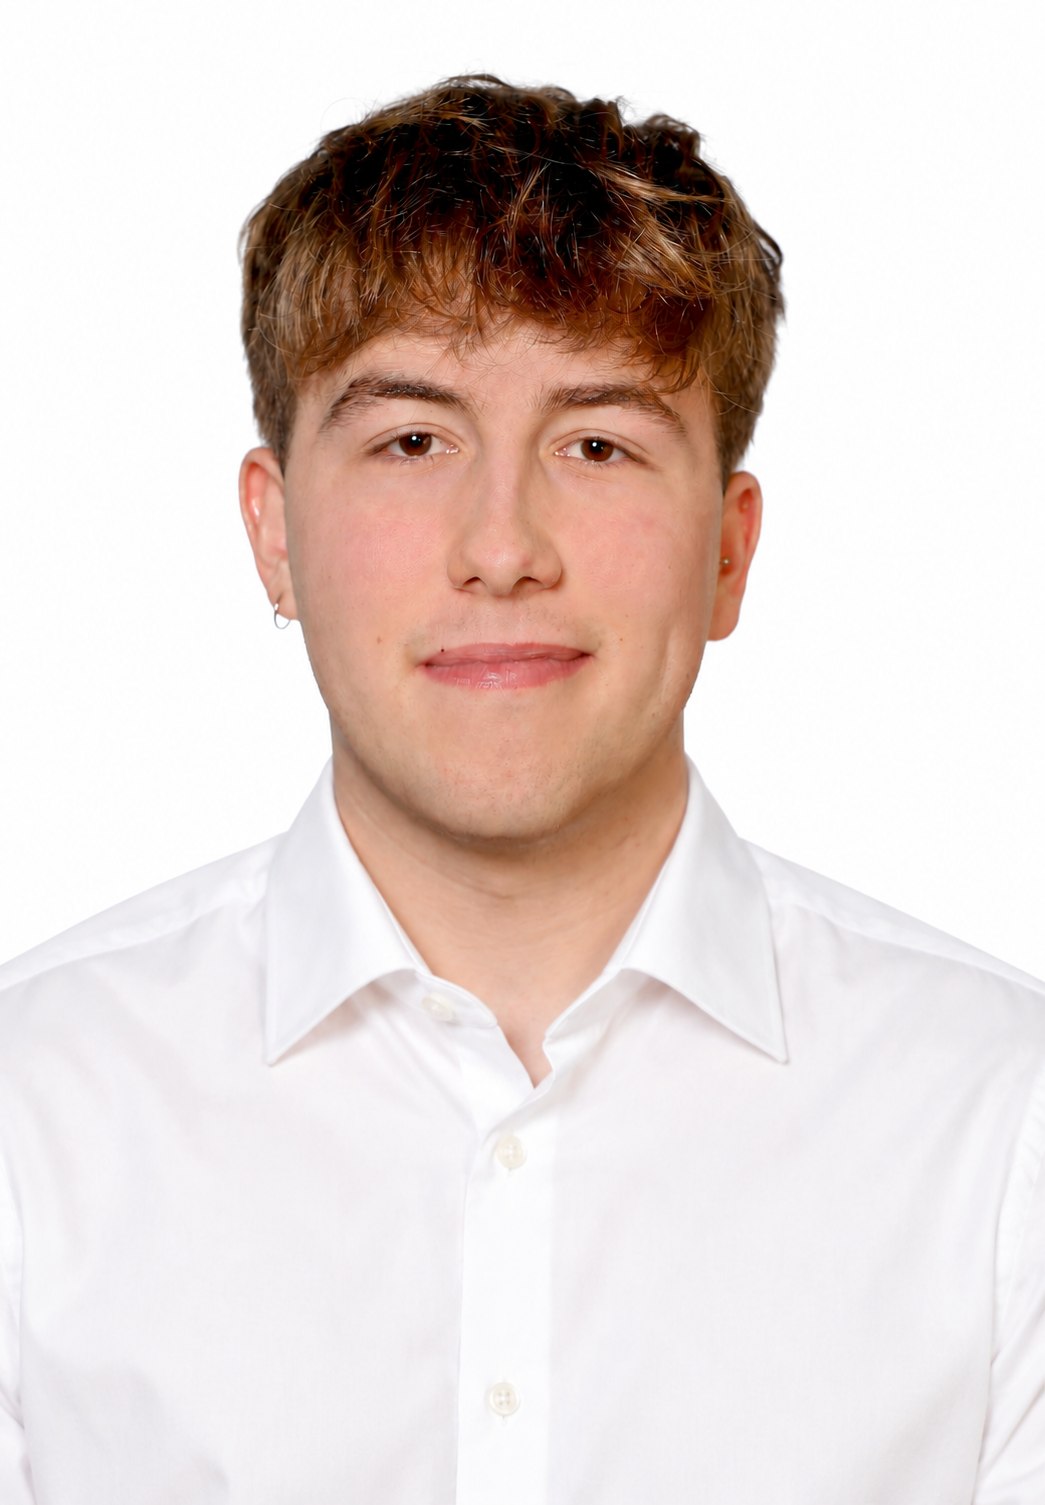
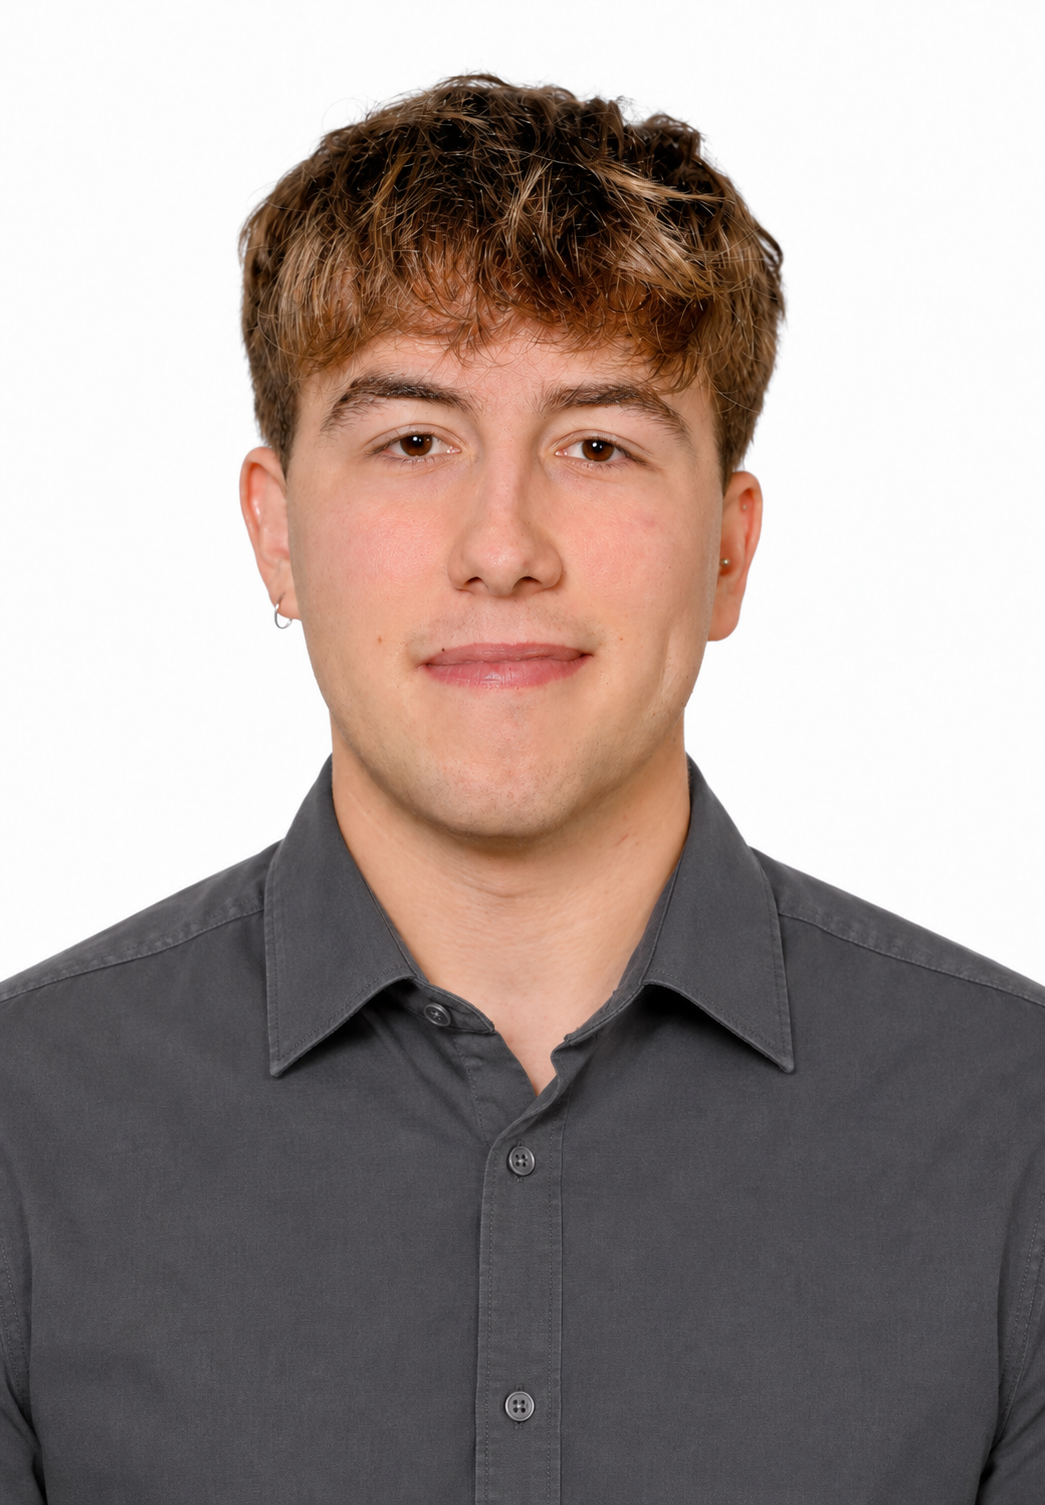
Actualiza el perfil, la experiencia y el panel de certificaciones

diff --git a/index.html b/index.html
@@ -674,6 +674,7 @@
               </svg>
               manuel.noya@udc.es
             </a>
+            <a class="course-shortcut" href="#certificados"><span>Ver certificaciones</span><strong>15</strong></a>
           </div>
         </article>
       </div>
@@ -713,6 +714,10 @@
       <div class="section-header"><div class="section-kicker">Trayectoria profesional</div><h2 class="section-title">Experiencia</h2></div>
       <article class="card timeline-card experience-row">
         <div><div class="tiny-label">Prácticas · 225 horas de experiencia</div><h3>Técnico de ciberseguridad</h3><p><strong>Balidea Programming &amp; Consulting</strong></p></div>
+        <div class="experience-content"><ul class="work-list"><li>Auditorías de seguridad y pentesting.</li><li>Revisión de código.</li><li>Desarrollo de herramientas de ciberseguridad.</li><li>Preparación de propuestas de proyectos de consultoría.</li></ul></div>
+      </article>
+      <article class="card timeline-card experience-row">
+        <div><div class="tiny-label">Ampliación de prácticas · 396 horas de experiencia</div><h3>Técnico de ciberseguridad</h3><p><strong>Balidea Programming &amp; Consulting</strong><br>En curso</p></div>
         <div class="experience-content"><ul class="work-list"><li>Auditorías de seguridad y pentesting.</li><li>Revisión de código.</li><li>Desarrollo de herramientas de ciberseguridad.</li><li>Preparación de propuestas de proyectos de consultoría.</li></ul></div>
       </article>
     </section>
@@ -803,59 +808,118 @@
     </section>
     <div class="divider"></div>
 
-    <section class="section" id="actividades">
-      <div class="section-header"><div class="section-kicker">CTF</div><h2 class="section-title">Actividades adicionales</h2></div>
-      <div class="activity-grid">
-        <article class="card activity-card"><div class="activity-heading"><h3>C3TF 2026</h3><span class="result-badge">Top 10</span></div><p>Entre los 10 primeros equipos de la competición.</p><span class="activity-meta">2026 · Participación por equipos</span></article>
-        <article class="card activity-card"><div class="activity-heading"><h3>Talent4Cyber 2025</h3><span class="result-badge">Top 15</span></div><p>Entre los 15 primeros equipos de la competición.</p><div class="resource-actions"><a class="inline-link" href="assets/docs/talent4cyber-2025.pdf" download>Ver diploma de participación ↗</a></div></article>
-      </div>
-    </section>
-    <div class="divider"></div>
-
     <section class="section" id="certificados">
-      <div class="section-header"><div class="section-kicker">Aprendizaje continuo</div><h2 class="section-title">Certificaciones</h2></div>
-      <div class="subsection-heading"><h3>Formación en ciberseguridad</h3></div>
-      <article class="card compact-credential cisco-credential"><div><h3>Introducción a Ciberseguridad</h3><p>Cisco Networking Academy · Septiembre de 2026 · Aprox. 6 h</p></div><span class="available">Disponible</span></article>
-
-      <details class="card tools manufacturers-compact">
-        <summary>Cursos especializados <span>IBM SkillsBuild · AttackIQ Academy</span></summary>
-        <div class="manufacturer-lines">
-          <div><h4>IBM SkillsBuild</h4><p>Cybersecurity Fundamentals · Aprox. 7 h 30 min <span class="available">Disponible</span></p></div>
-          <div><h4>AttackIQ Academy</h4><p>Top ATT&amp;CK Techniques · Aprox. 45 min <span class="available">Disponible</span></p></div>
-          <div><h4>AttackIQ Academy</h4><p>Foundations of AI Security · Más de 4 h 30 min de formación · 5 créditos CPE <span class="available">Disponible</span></p></div>
+      <div class="section-header"><div class="section-kicker">Aprendizaje continuo</div><h2 class="section-title">Cursos y certificaciones</h2></div>
+      <div class="card credential-browser">
+        <div class="credential-head"><strong>15</strong><p>Cursos y certificaciones<small>3 certificaciones · 4 cursos con credencial · 8 acreditaciones de producto</small></p></div>
+        <div class="issuer-tabs" aria-label="Filtrar por fabricante" role="group" hidden>
+          <button type="button" data-filter="Todos" aria-pressed="true">Todos</button>
+          <button type="button" data-kind="courses" data-filter="Cisco" aria-pressed="false">Cisco</button>
+          <button type="button" data-kind="courses" data-filter="IBM" aria-pressed="false">IBM</button>
+          <button type="button" data-kind="courses" data-filter="AttackIQ" aria-pressed="false">AttackIQ</button>
+          <button type="button" data-kind="certifications" data-filter="Fortinet" aria-pressed="false">Fortinet</button>
+          <button type="button" data-kind="certifications" data-filter="SkillFront" aria-pressed="false">SkillFront</button>
+          <button type="button" data-kind="tools" data-filter="Proactivanet" aria-pressed="false">Proactivanet</button>
+          <button type="button" data-kind="tools" data-filter="Yubico" aria-pressed="false">Yubico</button>
+          <button type="button" data-kind="tools" data-filter="Checkmarx" aria-pressed="false">Checkmarx</button>
         </div>
-      </details>
-
-      <details class="card tools manufacturers-compact">
-        <summary>Certificaciones de ciberseguridad <span>Fortinet Training Institute</span></summary>
-        <div class="manufacturer-lines">
-          <div><h4>Fortinet NSE 1</h4><p>NSE 1 Certified in Cybersecurity<br>Curso: Cybersecurity and Cloud Fundamentals 1.0 · Aprox. 11 h <span class="available">Disponible</span></p></div>
-          <div><h4>Fortinet NSE 2</h4><p>NSE 2 Certified in Cybersecurity<br>Curso: Introduction to Next Generation Firewall 1.0 · Aprox. 2 h <span class="available">Disponible</span></p></div>
+        <div class="record-group" data-kind="certifications"><h3>Certificaciones</h3>
+          <div class="record-grid">
+          <article class="record" data-maker="Fortinet">
+            <div class="record-byline"><strong>Fortinet</strong><span>Certificación de fabricante</span></div>
+            <h4>NSE 1 Certified in Cybersecurity</h4><p>Cybersecurity and Cloud Fundamentals 1.0</p><small>Curso · 11 h · Vigente hasta el 25/11/2028</small>
+          <span class="available">Disponible</span></article>
+          <article class="record" data-maker="Fortinet">
+            <div class="record-byline"><strong>Fortinet</strong><span>Certificación de fabricante</span></div>
+            <h4>NSE 2 Certified in Cybersecurity</h4><p>Introduction to Next Generation Firewall 1.0</p><small>Curso · 2 h · Vigente hasta el 26/11/2028</small>
+          <span class="available">Disponible</span></article>
+          <article class="record" data-maker="SkillFront">
+            <div class="record-byline"><strong>SkillFront</strong><span>Certificación por examen</span></div>
+            <h4>ISO/IEC 27001:2022 Information Security Associate™</h4><p>Gestión de la seguridad de la información.</p>
+          <span class="available">Disponible</span></article>
+          </div>
         </div>
-      </details>
-
-      <details class="card tools manufacturers-compact">
-        <summary>Normativa y gestión de la seguridad <span>SkillFront</span></summary>
-        <div class="manufacturer-lines">
-          <div><h4>SkillFront</h4><p>ISO/IEC 27001:2022 Information Security Associate™ <span class="available">Disponible</span></p></div>
+        <div class="record-group" data-kind="courses"><h3>Cursos de ciberseguridad</h3>
+          <div class="record-grid">
+          <article class="record" data-maker="Cisco">
+            <div class="record-byline"><strong>Cisco</strong><span>Curso con credencial</span></div>
+            <h4>Introducción a Ciberseguridad</h4><p>Cisco Networking Academy</p><small>6 h · Septiembre de 2026</small>
+          <span class="available">Disponible</span></article>
+          <article class="record" data-maker="IBM">
+            <div class="record-byline"><strong>IBM</strong><span>Curso con credencial</span></div>
+            <h4>Cybersecurity Fundamentals</h4><p>IBM SkillsBuild</p><small>7 h 30 min</small>
+          <span class="available">Disponible</span></article>
+          <article class="record" data-maker="AttackIQ">
+            <div class="record-byline"><strong>AttackIQ</strong><span>Curso con credencial</span></div>
+            <h4>Top ATT&amp;CK Techniques</h4><p>Priorización de técnicas de MITRE ATT&amp;CK.</p><small>45 min · 0,75 créditos CPE</small>
+          <span class="available">Disponible</span></article>
+          <article class="record" data-maker="AttackIQ">
+            <div class="record-byline"><strong>AttackIQ</strong><span>Curso con credencial</span></div>
+            <h4>Foundations of AI Security</h4><p>Riesgos y marcos de seguridad de la inteligencia artificial.</p><small>Más de 4 h 30 min · 5 créditos CPE</small>
+          <span class="available">Disponible</span></article>
+          </div>
         </div>
-      </details>
-
-      <details class="card tools manufacturers-compact">
-        <summary>Herramientas y fabricantes <span>Checkmarx · Yubico · Proactivanet</span></summary>
-        <div class="manufacturer-lines">
-          <div><h4>Checkmarx</h4><p>Revisión de código · <a href="https://checkmarx.com/customer-enablement/checkmarx-university/" target="_blank" rel="noopener noreferrer">Checkmarx University ↗</a></p></div>
-          <div><h4>Yubico · YubiKey</h4><p>Llaves de seguridad y passkeys · Essentials y Sales <span class="available">Disponible</span></p></div>
-          <div><h4>Proactivanet</h4><p>Gestión de activos · PCC y PCT ITAM, Bronze y Silver<br>Nivel Gold · Consultoría (PCC ITAM) · Técnica (PCT ITAM) <span class="available">Disponible</span></p></div>
+        <div class="record-group" data-kind="tools"><h3>Herramientas y fabricantes</h3>
+          <div class="record-grid">
+          <article class="record" data-maker="Proactivanet">
+            <div class="record-byline"><strong>Proactivanet</strong><span>Acreditaciones de producto</span></div>
+            <h4>PCC · Consultoría ITAM</h4><p>Implantación y administración de la plataforma. Bronze acredita inventario, Silver configuración y Gold capacidad y disponibilidad.</p><small>Bronze · Silver · Gold</small>
+          <span class="available">Disponible</span></article>
+          <article class="record" data-maker="Proactivanet">
+            <div class="record-byline"><strong>Proactivanet</strong><span>Acreditaciones de producto</span></div>
+            <h4>PCT · Técnica ITAM</h4><p>Operación y gestión de activos con Proactivanet. Bronze acredita inventario, Silver configuración y Gold capacidad y disponibilidad.</p><small>Bronze · Silver · Gold</small>
+          <span class="available">Disponible</span></article>
+          <article class="record" data-maker="Yubico">
+            <div class="record-byline"><strong>Yubico</strong><span>Acreditación de producto</span></div>
+            <h4>100 · Essentials</h4><p>Llaves YubiKey y autenticación multifactor resistente al phishing.</p>
+          <span class="available">Disponible</span></article>
+          <article class="record" data-maker="Yubico">
+            <div class="record-byline"><strong>Yubico</strong><span>Acreditación de producto</span></div>
+            <h4>200 · Sales</h4><p>Casos de uso de YubiKey y necesidades del cliente.</p>
+          <span class="available">Disponible</span></article>
+          <article class="record" data-maker="Checkmarx">
+            <div class="record-byline"><strong>Checkmarx</strong><span>Formación</span></div>
+            <h4>Revisión de código</h4><p>Formación en seguridad del código.</p>
+          </article>
+          </div>
         </div>
-      </details>
-
+      </div>
+      <script>
+        (() => {
+          const browser = document.querySelector('.credential-browser');
+          const tabs = browser.querySelector('.issuer-tabs');
+          tabs.hidden = false;
+          tabs.addEventListener('click', event => {
+            const selected = event.target.closest('button');
+            if (!selected) return;
+            const maker = selected.dataset.filter;
+            for (const button of tabs.querySelectorAll('button')) {
+              button.setAttribute('aria-pressed', String(button === selected));
+            }
+            for (const group of browser.querySelectorAll('.record-group')) {
+              for (const card of group.querySelectorAll('.record')) {
+                card.hidden = maker !== 'Todos' && maker !== card.dataset.maker;
+              }
+              group.hidden = !group.querySelector('.record:not([hidden])');
+            }
+          });
+        })();
+      </script>
       <div class="subsection-heading"><h3>Insignias</h3></div>
       <div style="display:flex; flex-wrap:wrap; gap:16px; align-items:center">
         <img src="assets/img/insignias/introduction-to-cybersecurity.png" width="76" height="76" loading="lazy" alt="Cisco Networking Academy · Introduction to Cybersecurity" title="Cisco Networking Academy · Introduction to Cybersecurity">
         <img src="assets/img/insignias/cybersecurity-fundamentals.png" width="76" height="76" loading="lazy" alt="IBM SkillsBuild · Cybersecurity Fundamentals" title="IBM SkillsBuild · Cybersecurity Fundamentals">
         <img src="assets/img/insignias/top-att-ck-techniques.png" width="76" height="76" loading="lazy" alt="AttackIQ · Top ATT&amp;CK Techniques" title="AttackIQ · Top ATT&amp;CK Techniques">
         <img src="assets/img/insignias/foundations-of-ai-security.png" width="76" height="76" loading="lazy" alt="AttackIQ · Foundations of AI Security" title="AttackIQ · Foundations of AI Security">
+      </div>
+    </section>
+    <div class="divider"></div>
+
+    <section class="section" id="actividades">
+      <div class="section-header"><div class="section-kicker">CTF</div><h2 class="section-title">Actividades adicionales</h2></div>
+      <div class="activity-grid">
+        <article class="card activity-card"><div class="activity-heading"><h3>C3TF 2026</h3><span class="result-badge">Top 10</span></div><p>Entre los 10 primeros equipos de la competición.</p><span class="activity-meta">2026 · Participación por equipos</span></article>
+        <article class="card activity-card"><div class="activity-heading"><h3>Talent4Cyber 2025</h3><span class="result-badge">Top 15</span></div><p>Entre los 15 primeros equipos de la competición.</p><div class="resource-actions"><a class="inline-link" href="assets/docs/talent4cyber-2025.pdf" download>Ver diploma de participación ↗</a></div></article>
       </div>
     </section>
     <div class="divider"></div>

diff --git a/assets/css/style.css b/assets/css/style.css
@@ -271,3 +271,45 @@ h1 { font-size: clamp(2.1rem, 4vw, 3.35rem); letter-spacing: -.045em; }
 .native-summary { color: var(--muted); font-size: .82rem; margin: 16px 0 0; }
 .native-summary span { color: #c7d2e2; }
 #idiomas > .subsection-heading h3 { margin-top: 0; }
+
+
+/* Cursos y certificaciones */
+#experiencia .experience-row + .experience-row { margin-top: 14px; }
+.hero-actions .course-shortcut { display: inline-flex; align-items: center; gap: 7px; margin-inline-start: auto; padding: 6px 10px; border: 1px solid var(--line); border-radius: 20px; color: var(--accent-soft); font-size: .76rem; text-decoration: none; }
+.course-shortcut strong { padding-inline-start: 7px; border-left: 1px solid var(--line-strong); color: var(--accent); }
+.course-shortcut:hover, .record a:hover { color: white; }
+.credential-browser { padding: 0; overflow: hidden; }
+.credential-head { display: flex; align-items: center; gap: 16px; padding: 19px 24px; background: linear-gradient(110deg,#1c3049,#121c2b 72%); }
+.credential-head strong { font-size: 2.6rem; line-height: 1; color: var(--accent-soft); }
+.credential-head p { margin: 0; font-weight: 650; }
+.credential-head small { display: block; margin-top: 4px; color: var(--muted); font-weight: 400; }
+.issuer-tabs { display: flex; flex-wrap: wrap; gap: 3px; padding: 6px 14px 0; border-bottom: 1px solid var(--line-strong); background: #101a27; }
+.issuer-tabs button { padding: 10px 12px; border: 0; border-bottom: 2px solid transparent; border-radius: 7px 7px 0 0; color: var(--muted); background: transparent; font: inherit; font-size: .82rem; cursor: pointer; }
+.issuer-tabs button:hover { color: var(--accent-soft); background: #19283c; }
+.issuer-tabs button[aria-pressed="true"] { color: var(--accent-soft); background: #20324a; border-bottom-color: var(--accent); }
+.credential-browser :focus-visible, .course-shortcut:focus-visible { outline: 2px solid var(--accent); outline-offset: -2px; }
+.record-group { margin: 22px clamp(12px,2vw,24px); }
+.record-group h3 { margin: 0 0 9px; font-size: 1rem; }
+.credential-browser [data-kind="courses"] { --kind-color: #91bbff; }
+.credential-browser [data-kind="certifications"] { --kind-color: #d2b6ff; }
+.credential-browser [data-kind="tools"] { --kind-color: #78cdbd; }
+.issuer-tabs button[data-kind]::before { content: ''; display: inline-block; width: 5px; height: 5px; margin-right: 6px; border-radius: 50%; background: var(--kind-color); vertical-align: middle; }
+.issuer-tabs button[data-kind][aria-pressed="true"] { border-bottom-color: var(--kind-color); }
+.record-group h3 { border-left: 3px solid var(--kind-color); padding-left: 9px; }
+.record-grid { display: grid; grid-template-columns: repeat(auto-fill,minmax(min(100%,17rem),1fr)); gap: 9px; }
+.record { display: flex; flex-direction: column; min-width: 0; overflow-wrap: anywhere; padding: 12px 15px; background: #132031; border: 1px solid var(--line); border-radius: 9px; }
+.record-byline { display: flex; flex-wrap: wrap; align-items: baseline; gap: 3px 9px; font-size: .72rem; color: var(--muted); }
+.record-byline strong { color: var(--kind-color); font-size: .79rem; }
+.record h4 { text-wrap: pretty; margin: 9px 0 5px; font-size: 1rem; line-height: 1.35; }
+.record p, .record small { color: var(--muted); font-size: .81rem; margin: 0; }
+.record .available { margin-top: auto; padding-top: 8px; }
+.record small { display: block; margin-top: 8px; }
+.record a { color: var(--accent-soft); text-decoration: underline; text-underline-offset: 3px; text-decoration-color: #596e87; }
+.record h4 a { text-decoration: none; }
+.record h4 a:hover { text-decoration: underline; }
+.credential-browser [hidden] { display: none; }
+@media(max-width:700px) {
+  .issuer-tabs { padding-inline: 6px; gap: 0; }
+  .issuer-tabs button { padding: 9px; }
+  .credential-head { padding: 17px; }
+}
